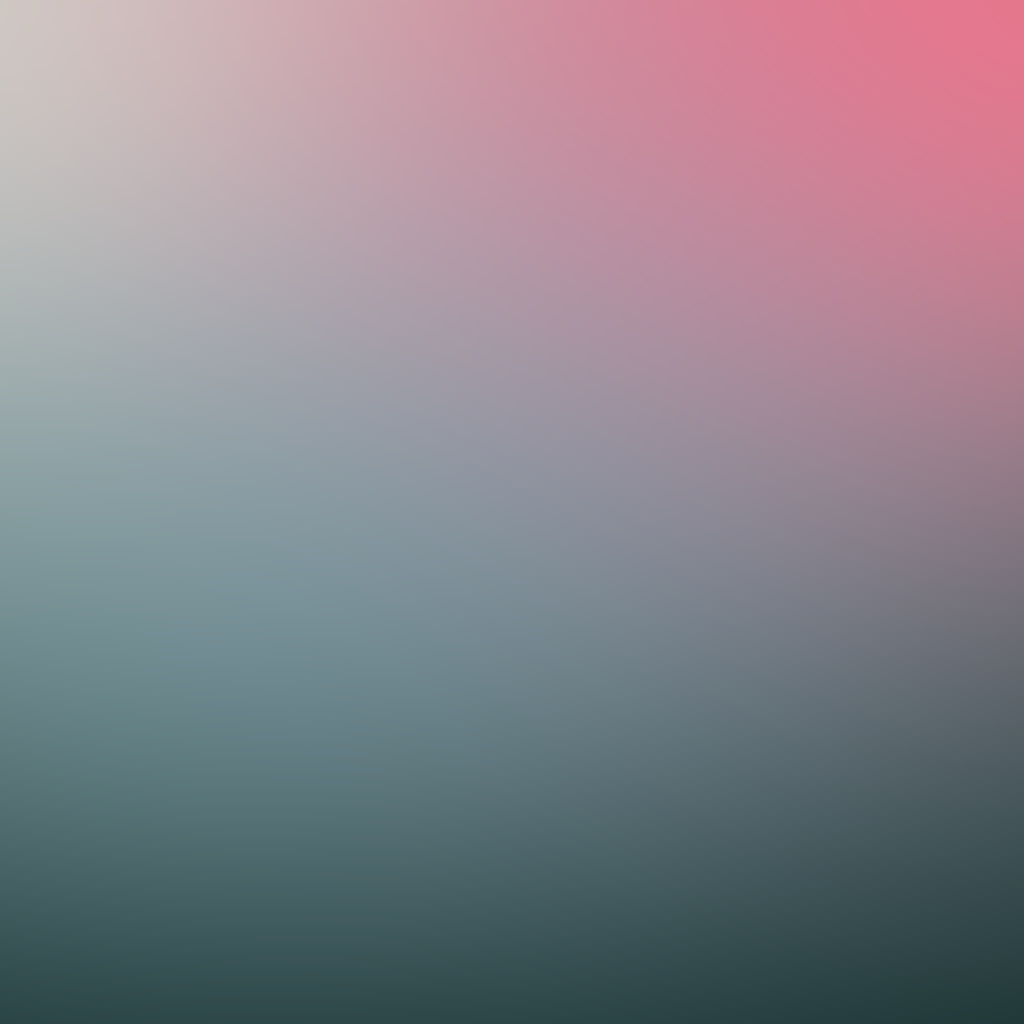
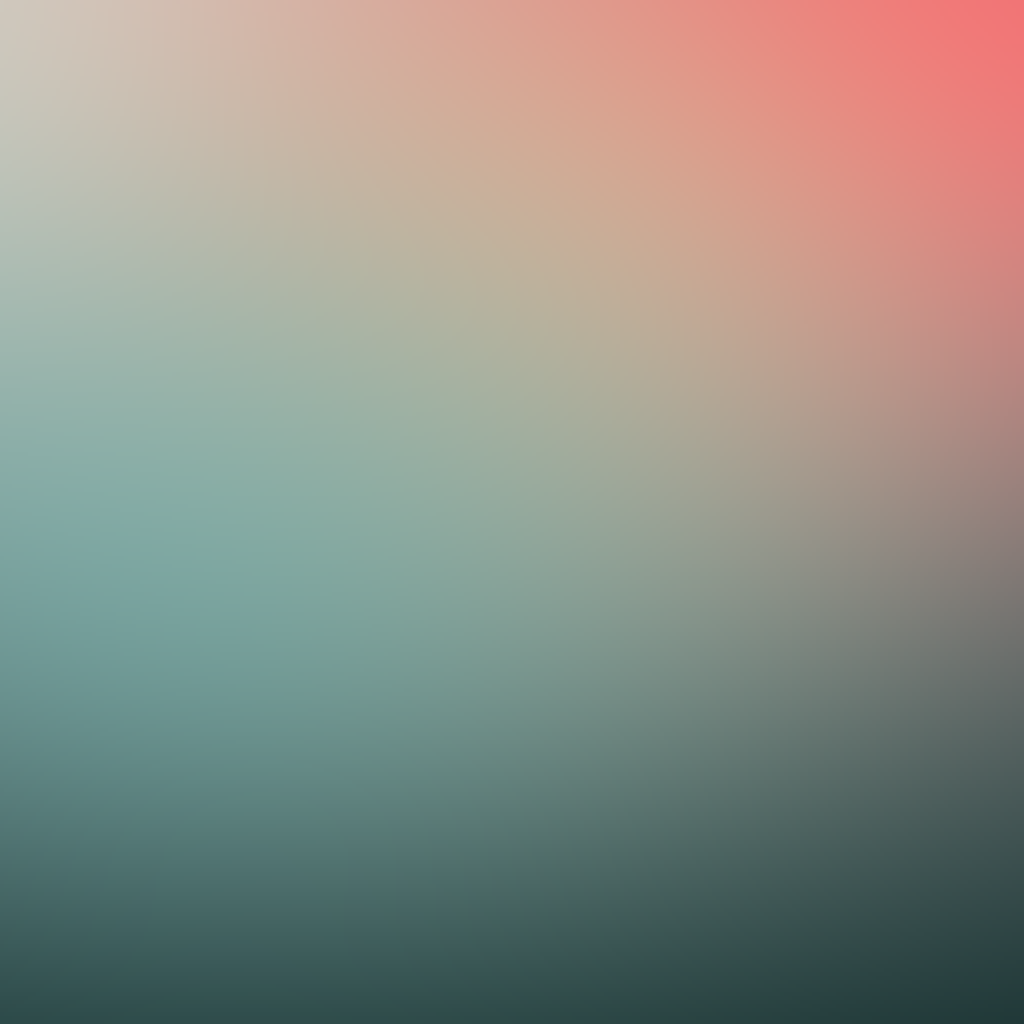
Warm the aurora palette and allow shared photo resource reads

Changed region(s): [[0.4375, 0.125, 0.75, 0.4688]]

diff --git a/swiftPort/Sources/StylePortApp/PhotoLibraryService.swift b/swiftPort/Sources/StylePortApp/PhotoLibraryService.swift
@@ -382,7 +382,7 @@ private extension PhotoLibraryService {
         return albums
     }
 
-    static func data(for resource: PHAssetResource, allowNetwork: Bool = true) async throws -> Data {
+    internal static func data(for resource: PHAssetResource, allowNetwork: Bool = true) async throws -> Data {
         let options = PHAssetResourceRequestOptions()
         options.isNetworkAccessAllowed = allowNetwork
         let buffer = Collector<Data>()

diff --git a/swiftPort/tools/generate_app_icon.py b/swiftPort/tools/generate_app_icon.py
@@ -13,12 +13,12 @@ SOURCE = ROOT / "IconSources" / "Palettify.icon"
 ACCENT = (1, 3)  # second row, fourth column; keep its original size
 DOT_RADIUS = 0.022
 ACCENT_RADIUS = 0.036
-# Broad, overlapping aurora washes: pale mist, coral, lavender and blue over deep teal.
+# Broad, overlapping aurora washes: pale mist, coral, soft gold and teal over deep teal.
 WASHES = [
     (0.05, 0.02, 0.58, 0.42, (213, 221, 209), 0.94),
-    (0.96, 0.02, 0.48, 0.32, (243, 112, 133), 0.96),
-    (0.63, 0.29, 0.36, 0.33, (171, 153, 188), 0.30),
-    (0.27, 0.58, 0.43, 0.26, (109, 166, 179), 0.38),
+    (0.96, 0.02, 0.48, 0.32, (247, 102, 111), 0.98),
+    (0.55, 0.28, 0.32, 0.28, (237, 210, 154), 0.52),
+    (0.22, 0.54, 0.43, 0.27, (106, 180, 179), 0.55),
 ]
 
 

diff --git a/swiftPort/IconSources/README.md b/swiftPort/IconSources/README.md
@@ -4,7 +4,7 @@ Open `Palettify.icon` in Apple Icon Composer on macOS.
 
 Four separately editable layers use a 1024 × 1024 canvas:
 
-1. Aurora background: a smooth gradient image only, with mist, coral, lavender, blue and deep teal washes.
+1. Aurora background: a smooth gradient image only, with mist, coral red, soft yellow and blue-green teal washes.
 2. Accent white glow: a subtle transparent white glow for the second-row, fourth-column dot only.
 3. Small dots: 24 white SVG circles, without glow, glass or shadow.
 4. Accent dot: its original radius is retained, without a drop shadow.
